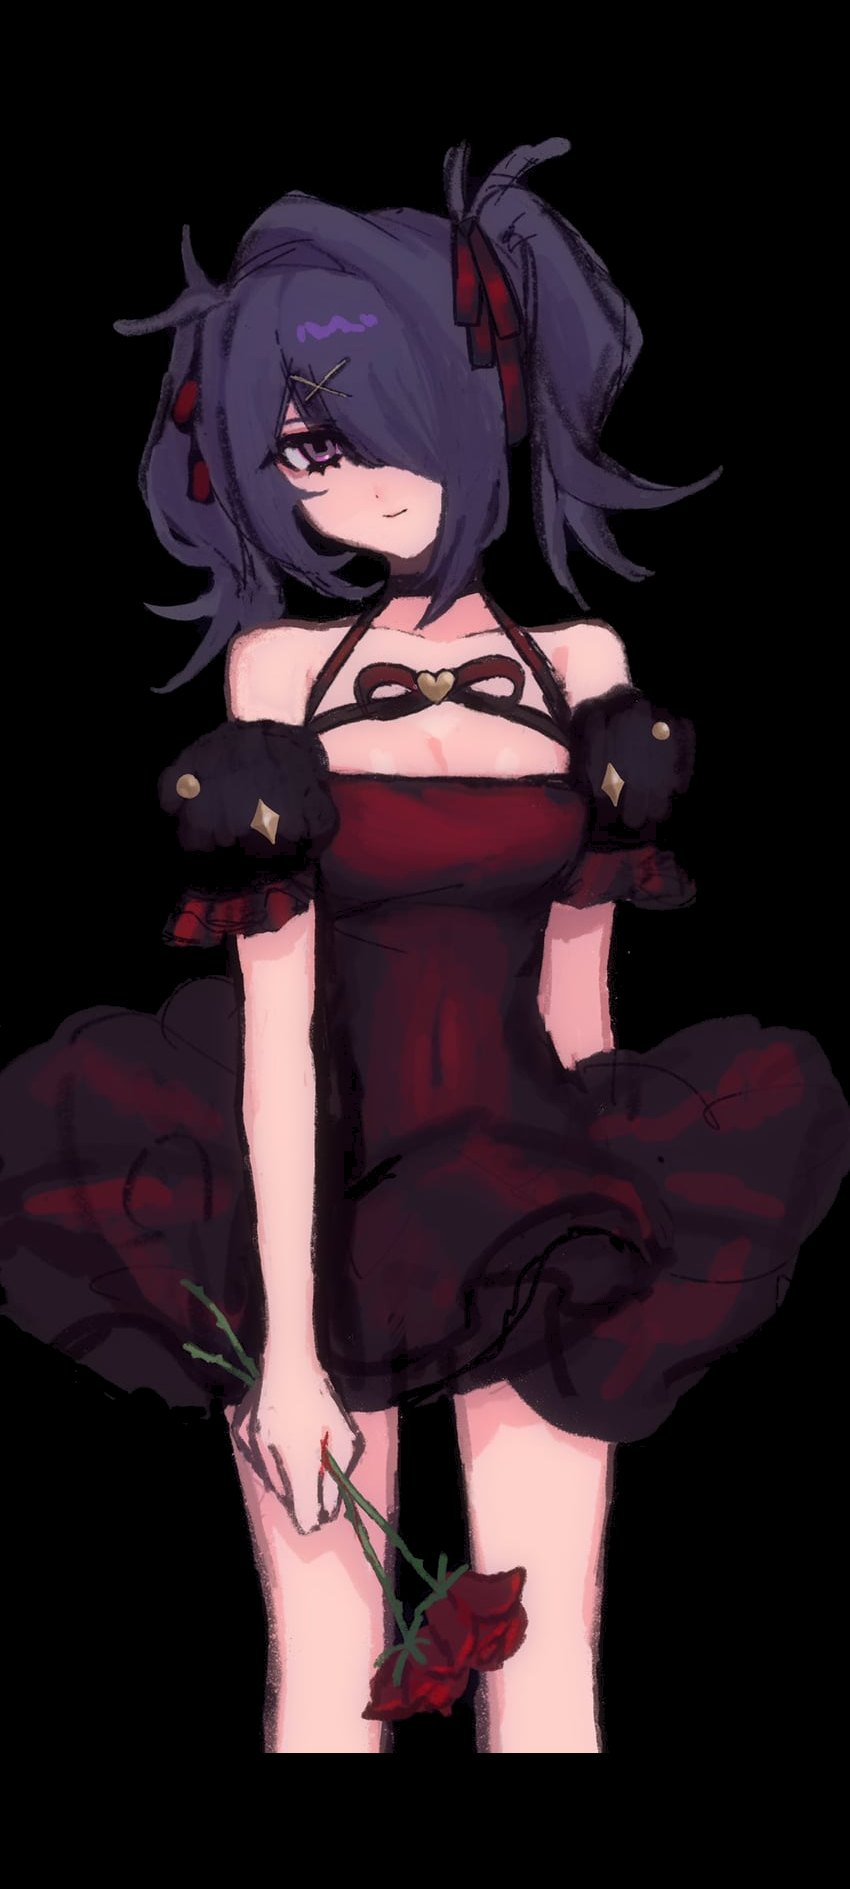
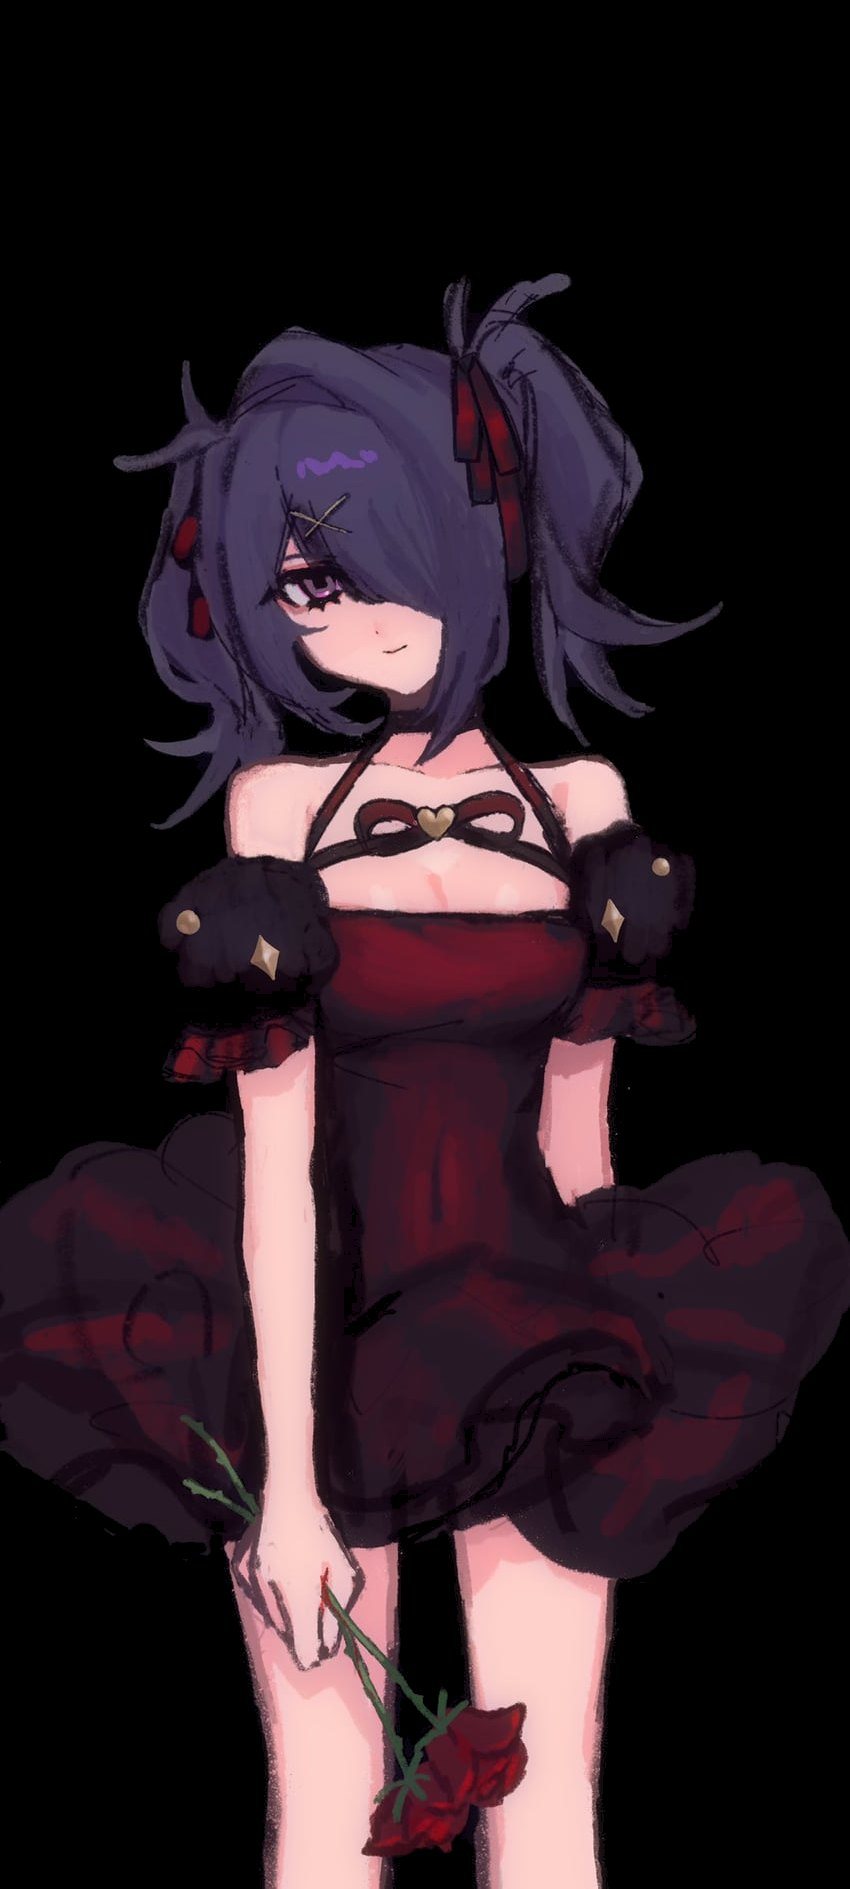
Ame-chan 1.5.1: Rose background placed at the bottom of the screen
Claude-Session: https://claude.ai/code/session_01NJTNrqWYRC5ESiJAXxfdcF

diff --git a/plugins/ame-theme/js/index.ts b/plugins/ame-theme/js/index.ts
@@ -848,7 +848,7 @@ export default plugin({
 		})
 		themes.registerTheme('ame', 'ame-rose-background', {
 			name: 'Ame-chan Rose (Background)',
-			description: 'Her in the wine dress with a rose, melting into true black.',
+			description: 'Her in the wine dress with a rose at the bottom of the screen, melting into true black.',
 			getColors: roseColors,
 			background: {
 				path: 'assets/ame-rose.jpg',
